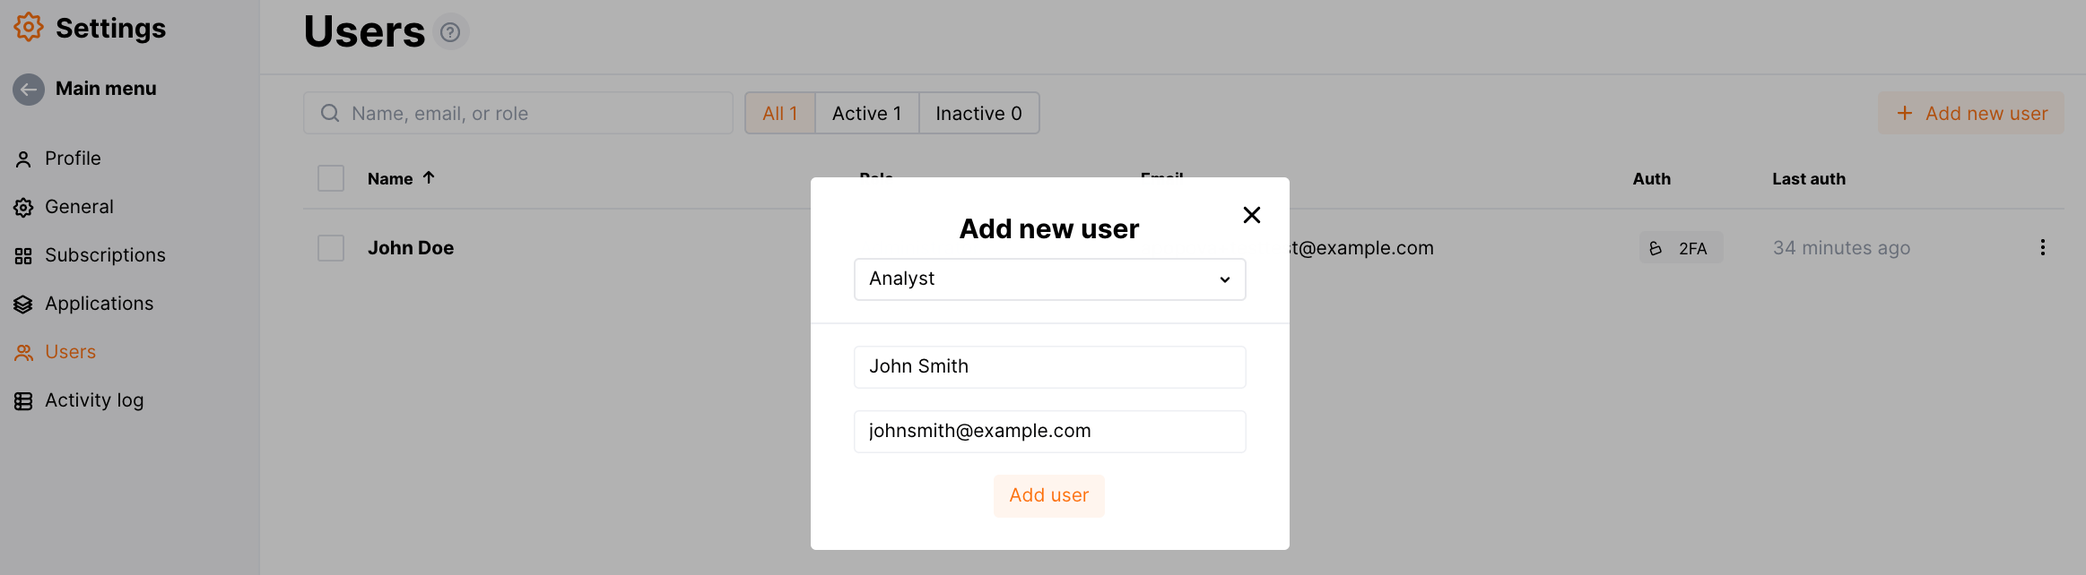
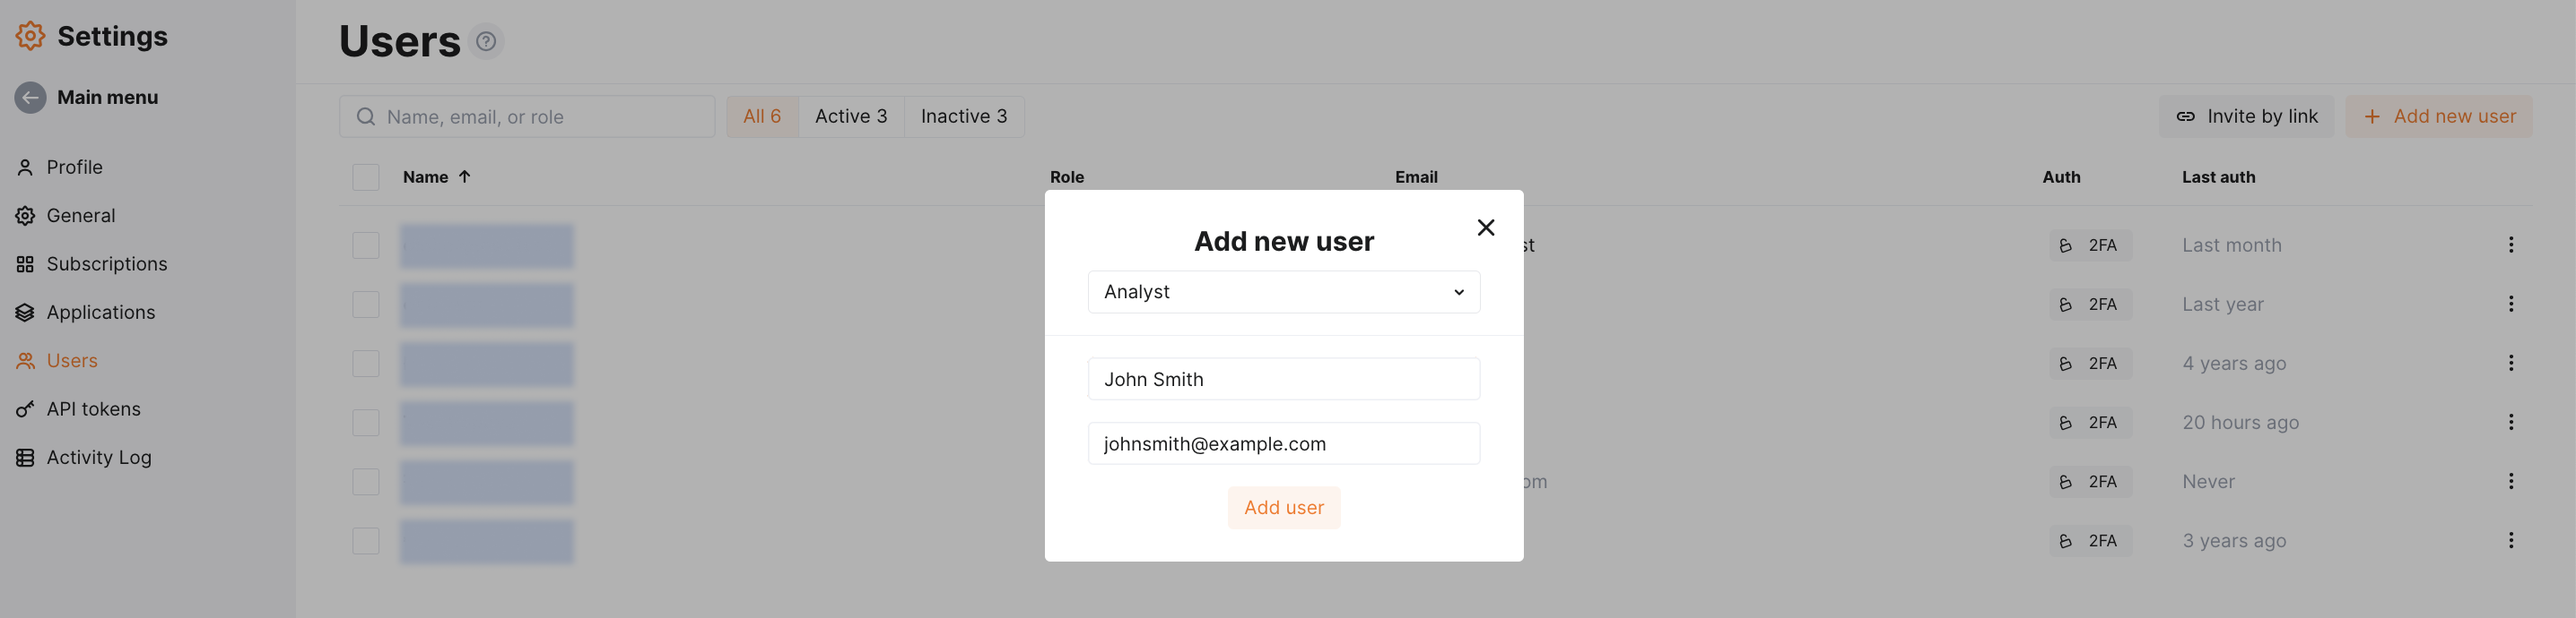
rewrite the user article

diff --git a/docs/latest/user-guides/settings/users.md b/docs/latest/user-guides/settings/users.md
@@ -7,6 +7,7 @@
 [img-disabled-users]:       ../../images/user-guides/settings/disabled-users.png
 [img-search-user]:          ../../images/user-guides/settings/search-users.png
 [img-add-user]:             ../../images/user-guides/settings/integrations/webhook-examples/adding-user.png
+[img-add-user-invitation-link]: ../../images/user-guides/settings/invite-user-by-link.png
 [img-user-menu]:            ../../images/user-guides/settings/user-menu.png
 [img-disabled-user-menu]:   ../../images/user-guides/settings/disabled-user-menu.png
 [img-edit-user]:            ../../images/user-guides/settings/edit-user.png
@@ -15,15 +16,13 @@
 [img-disable-delete-multi]:     ../../images/user-guides/settings/users-multi-disable-access.png
 [img-enable-delete-multi]:      ../../images/user-guides/settings/users-multi-enable-access.png    
 
+# Managing Users
 
-# Configuring Users
+Invite your team members to your Wallarm account and assign each one a specific role to safeguard sensitive information and limit account actions. Manage users under **Settings** → **Users**.
 
-You can manage user accounts in the *Users* tab located in *Settings*.
+Only **Administrator** and **Global Administrator** roles have user management privileges.
 
-!!! warning "Administrator access"
-    Only users with the **Administrator** role can access this setting.
-
-## User Roles
+## User roles
 
 Users of Wallarm clients can have the following roles:
 
@@ -31,6 +30,10 @@ Users of Wallarm clients can have the following roles:
 * **Analyst** with access to view main Wallarm settings, and manage information about attacks, [incidents][link-glossary-incident] and [vulnerabilities][link-glossary-vulnerability]
 * **Read Only** with access to view main Wallarm settings
 * **API Developer** with access to view and download the API inventory discovered by the [API Discovery](../../api-discovery/overview.md) module. This role allows distinguishing users whose tasks only require using Wallarm to get actual data on company APIs. These users do not have access to any Wallarm Console sections except for **API Discovery**, its dashboard, and **Settings → Profile**.
+* **Deploy** with access to create Wallarm filtering nodes using the `addnode` script and with no access to Wallarm Console
+
+    !!! warning "Using the Deploy role to install the Wallarm node 4.0"
+        The **Deploy** user role is recommended to be used to install only nodes 3.6 and lower since the [`addnode` script is deprecated in the release of version 4.0](../../updating-migrating/older-versions/what-is-new.md#unified-registration-of-nodes-in-the-wallarm-cloud-by-tokens).
 
 The [multitenancy](../../installation/multi-tenant/overview.md) feature also enables you to use the global roles **Global Administrator**, **Global Analyst**, **Global Read Only**. Global roles provide users with access to the technical tenant account and linked tenant accounts, regular roles provide users with access only to the technical tenant account.
 
@@ -57,117 +60,88 @@ More detailed information about access of different user roles to the Wallarm en
 | **Users**           | View and manage                      | -                        | View                         | - |
 | **Activity log**    | View                                 | -                        | View                         | - |
 
-## Viewing Users
+## Inviting a user
 
-You can view user lists in the following tabs:
-*   The main *Users* tab contains all users of your company registered in the Wallarm cloud. In this tab, any disabled users are highlighted in gray.
+You can add a user to your account in two ways, both involving the creation and sharing of an invitation link. You can either have Wallarm automatically send the invitation link to the user's specified email or share the link directly with the user.
 
-    ![User list][img-configure-user]
+### Automatic email invitation
 
-*   The *Disabled* tab contains only disabled users.
+For this method, set up the user's role, email, and names in advance, and Wallarm will automatically send an invitation email with a link to log in and set a password to the specified user's email. The user should then follow the link to complete the signup process.
 
-    ![Disabled users list][img-disabled-users]
+To send an invitation link automatically, click the **Add new user** button and complete the form:
 
-You can click the cells in the table header to sort users by name, role, email, and last login date.
+![New user form][img-add-user]
 
-You also can choose one or several users by checking the checkboxes on the left of the usernames; therefore, you will be able to do operations on a group of users. 
+After submitting the form, the user will be added to your list of users and receive an email with the invitation link.
 
-## Searching Users
+### Manual invitation link sharing
 
-You can use the search field above the table to search users by name, email, or system role.
+Generate an invitation link by selecting your team member's email, their role, and the link's duration using the **Invite by link** option. Then, share this link with the intended user.
 
-![Searching a user][img-search-user]
+![New user inv link][img-add-user-invitation-link]
 
-## Create a User
+This link leads them to the Wallarm signup page to create their account by choosing a password and entering their name.
 
-1.  In the *Users* tab of the *Settings* section, click the *Add user* button.
-2.  Select the user role from the dropdown list.
-3.  Enter a first and last name, and an email for the user.
+After signup, they will be added to your user list and will receive a confirmation email.
 
-    ![New user form][img-add-user]
+## Changing user settings
 
-4.  Click the *Add user* button.
+Once a user appears in the user list, you can edit their settings using the **Edit user settings** option from the corresponding user menu. This allows you to change their assigned user role, first name, and last name.
 
-    The new user will receive an automatic email with a link to login and set a password.
+## Disabling 2FA
 
-To be notified about newly added users, you can configure the appropriate [trigger](../triggers/triggers.md). Notifications will be sent to the messengers and SOAR systems (e.g. Slack, Microsoft Teams, OpsGenie).
+If a user has [two-factor authentication (2FA) enabled](account.md#enabling-two-factor-authentication) and you need to reset it, select the **Disable 2FA** option from the user menu. Confirm the action by entering your Wallarm administrator account password.
 
-## Change the User Info
+![User actions menu][img-user-menu-disable-2fa]
 
-To change the data on the user, perform the following actions:
-1.  In the *Users* tab of the *Settings* section, select the user to edit.
-2.  Open the user actions menu by clicking the button to the right of the corresponding user.
+This will disable 2FA for the selected user. The user can re-enable 2FA through their profile settings.
 
-    ![User actions menu][img-user-menu]
+## Disabling and deleting users
 
-3.  Click *Edit user settings*.
-4.  In the form that appears, enter the new user info and click the *Save* button.
+* To temporarily suspend a user's Wallarm account login capability without deleting their account information, use the **Disable access** option next to their name. This action marks them in gray in the main user list and lists them under the **Disabled** tab. Reactivate their account by choosing **Enable access**, allowing them to log in and access Wallarm again.
+* For permanent removal and to revoke login access forever, select **Delete** user from the user menu. This action permanently removes them from the user list and cannot be undone.
 
-    ![User info editing form][img-edit-user]
+## New user alerts
 
-The old user info will be replaced with the new.
+Receive instant alerts when new users are added to your Wallarm account by setting up a [trigger](../triggers/triggers.md) with the **User added** condition. Choose to be notified about specific roles or any new user addition.
 
-## Two-Factor Authentication Settings Reset
+Team members interested in these notifications must set up their own triggers.
 
-To reset the two-factor authentication settings, perform the following actions:
-1.  In the *Users* tab of the *Settings* section, select the desired user.
-2.  Open the user actions menu by clicking the button to the right of the corresponding user.
+**Trigger example: new user alerts to Slack**
 
-    ![User actions menu][img-user-menu-disable-2fa]
+If a new user with the **Administrator** or **Analyst** role is added to the company account in Wallarm Console, notification about this event will be sent to the email address specified in the integration and to the Slack channel.
 
-3.  Click *Disable 2FA*.
-4.  In the form that appears, enter your Wallarm administrator account password and click the *Disable 2FA* button.
+![Example of a trigger sending the notification to Slack and by email](../../images/user-guides/triggers/trigger-example2.png)
 
-    ![Disabling 2-factor authentication][img-user-disable-2fa]
+**To test the trigger:**
 
-The 2-factor authentication function will be disabled for the selected user. The user may re‑enable the 2‑factor authentication in the [profile settings](account.md#enabling-two-factor-authentication).
+1. Open the Wallarm Console → **Settings** → **Users** and add a new user.
+2. Open your email Inbox and check that the following message received:
 
-## Disable Access for a User
+    ![Email about new user added](../../images/user-guides/triggers/test-new-user-email-message.png)
+3. Open the Slack channel and check that the following notification from the user **wallarm** received:
 
-Disabling access for a user disables their Wallarm account.
+    ```
+    [Wallarm] Trigger: New user was added to the company account
+    
+    Notification type: create_user
+    
+    A new user John Smith <johnsmith@example.com> with the role Analyst was added to the company account by John Doe <johndoe@example.com>.
+    This notification was triggered by the "Added user" trigger.
 
-To disable a particular user’s Wallarm account, perform the following actions:
-1.  In the *Users* tab of the *Settings* section, select the desired user.
-2.  Open the user actions menu by clicking the button to the right of the corresponding user.
+    Client: TestCompany
+    Cloud: EU
+    ```
 
-    ![User actions menu][img-user-menu]
+    * `John Smith` and `johnsmith@example.com` is information about the added user
+    * `Analyst` is the role of the added user
+    * `John Doe` and `johndoe@example.com` is information about the user who added a new user
+    * `Added user` is the trigger name
+    * `TestCompany` is the name of your company account in Wallarm Console
+    * `EU` is the Wallarm Cloud where your company account is registered
 
-3.  Click *Disable Access*.
+## Logout management
 
-Now the selected user from your company will not be able to use their Wallarm account.
+**Administrator** and **Global Administrator** [roles](users.md#user-roles) can set up logout timeouts for company account in **Settings** → **General**. Settings will affect all account users. Idle and absolute timeouts can be set.
 
-If it is necessary to disable access for several user accounts, select the users whose access you need to revoke. The action panel will appear. Click the *Disable Access* button on this panel.
-
-![Disabling several users' accounts][img-disable-delete-multi]
-
-## Enable Access for a User
-
-Enabling access for a user enables their Wallarm account.
-
-To enable a particular user’s Wallarm account, perform the following actions:
-1.  In the *Users* tab of the *Settings* section, select the desired user with disabled access.
-2.  Open the user actions menu by clicking the button to the right of the corresponding user.
-
-    ![Disabled user actions menu][img-disabled-user-menu]
-
-3.  Click *Enable Access*.
-
-Now the selected user from your company will be able to use their Wallarm account.
-
-If it is necessary to enable access for several user accounts, select the users you need to grant access to. The action panel will appear. Click the *Enable Access* button on this panel.
-
-![Enabling several users' accounts][img-enable-delete-multi]
-
-## Delete a User
-
-To delete a  particular user account, perform the following actions:
-1.  In the *Users* tab of the *Settings* section, select the user to delete.
-2.  Open the user actions menu by clicking the button to the right of the corresponding user.
-
-    ![User actions menu][img-user-menu]
-
-3.  Click *Delete*.
-
-If it is necessary to delete several user accounts, select the users whose accounts you need to delete. The action panel will appear. Click the *Delete* button on this panel.
-
-![Deleting several users' accounts][img-disable-delete-multi]
+![General tab](../../images/user-guides/settings/general-tab.png)
